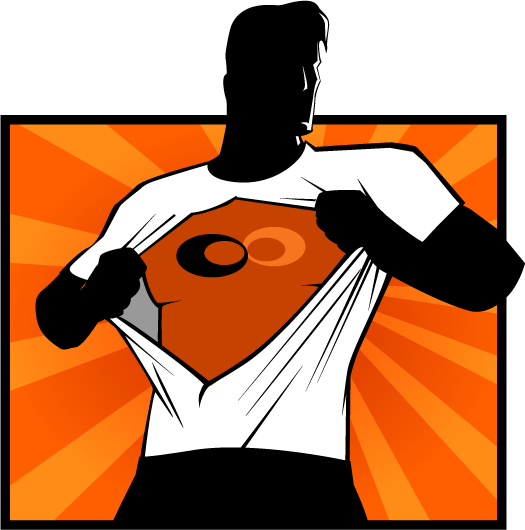
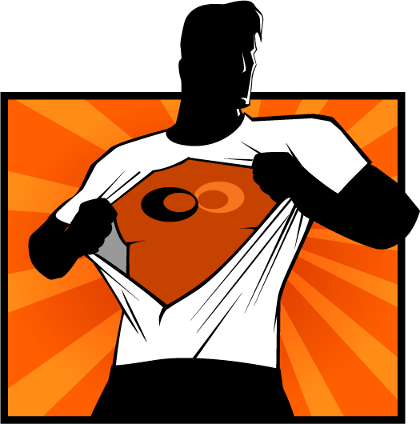
Shrunk image on internship page so that text doesn't overlap

diff --git a/join_us/internship/index.html b/join_us/internship/index.html
@@ -4,10 +4,10 @@ section_id: internship
 title: Internship Program
 impact:
   title: CALLING ALL SUPERGEEKS
-  background: url(/assets/images/supergeek.png) left bottom no-repeat
+  background: url(/assets/images/supergeek.png) center bottom no-repeat
   class: band-colors orange-band
   text: |
-    <h2>We’re looking for great problem solvers with experience in:</h2>
+    <h2 id='looking-for'>We’re looking for great problem solvers with experience in:</h2>
     <ul class='triangles'>
       <li>Ruby / Rails</li>
       <li>Mobile Technologies</li>

diff --git a/assets/css/style.css b/assets/css/style.css
@@ -1352,6 +1352,9 @@ section.dynamic_content .video-container embed {
     padding: 0 2em;
   }
 }
+#looking-for {
+  width: 90%;
+}
 @media screen and (min-width: 55em) {
   #positions section,
   #benefits-list section {

diff --git a/assets/less/structure/static.less b/assets/less/structure/static.less
@@ -40,6 +40,9 @@ section.static_content {
     }
   }
 } 
+#looking-for {
+  width: 90%;
+}
 #positions, #benefits-list {
   @media screen and (min-width: 55em){
     section {
